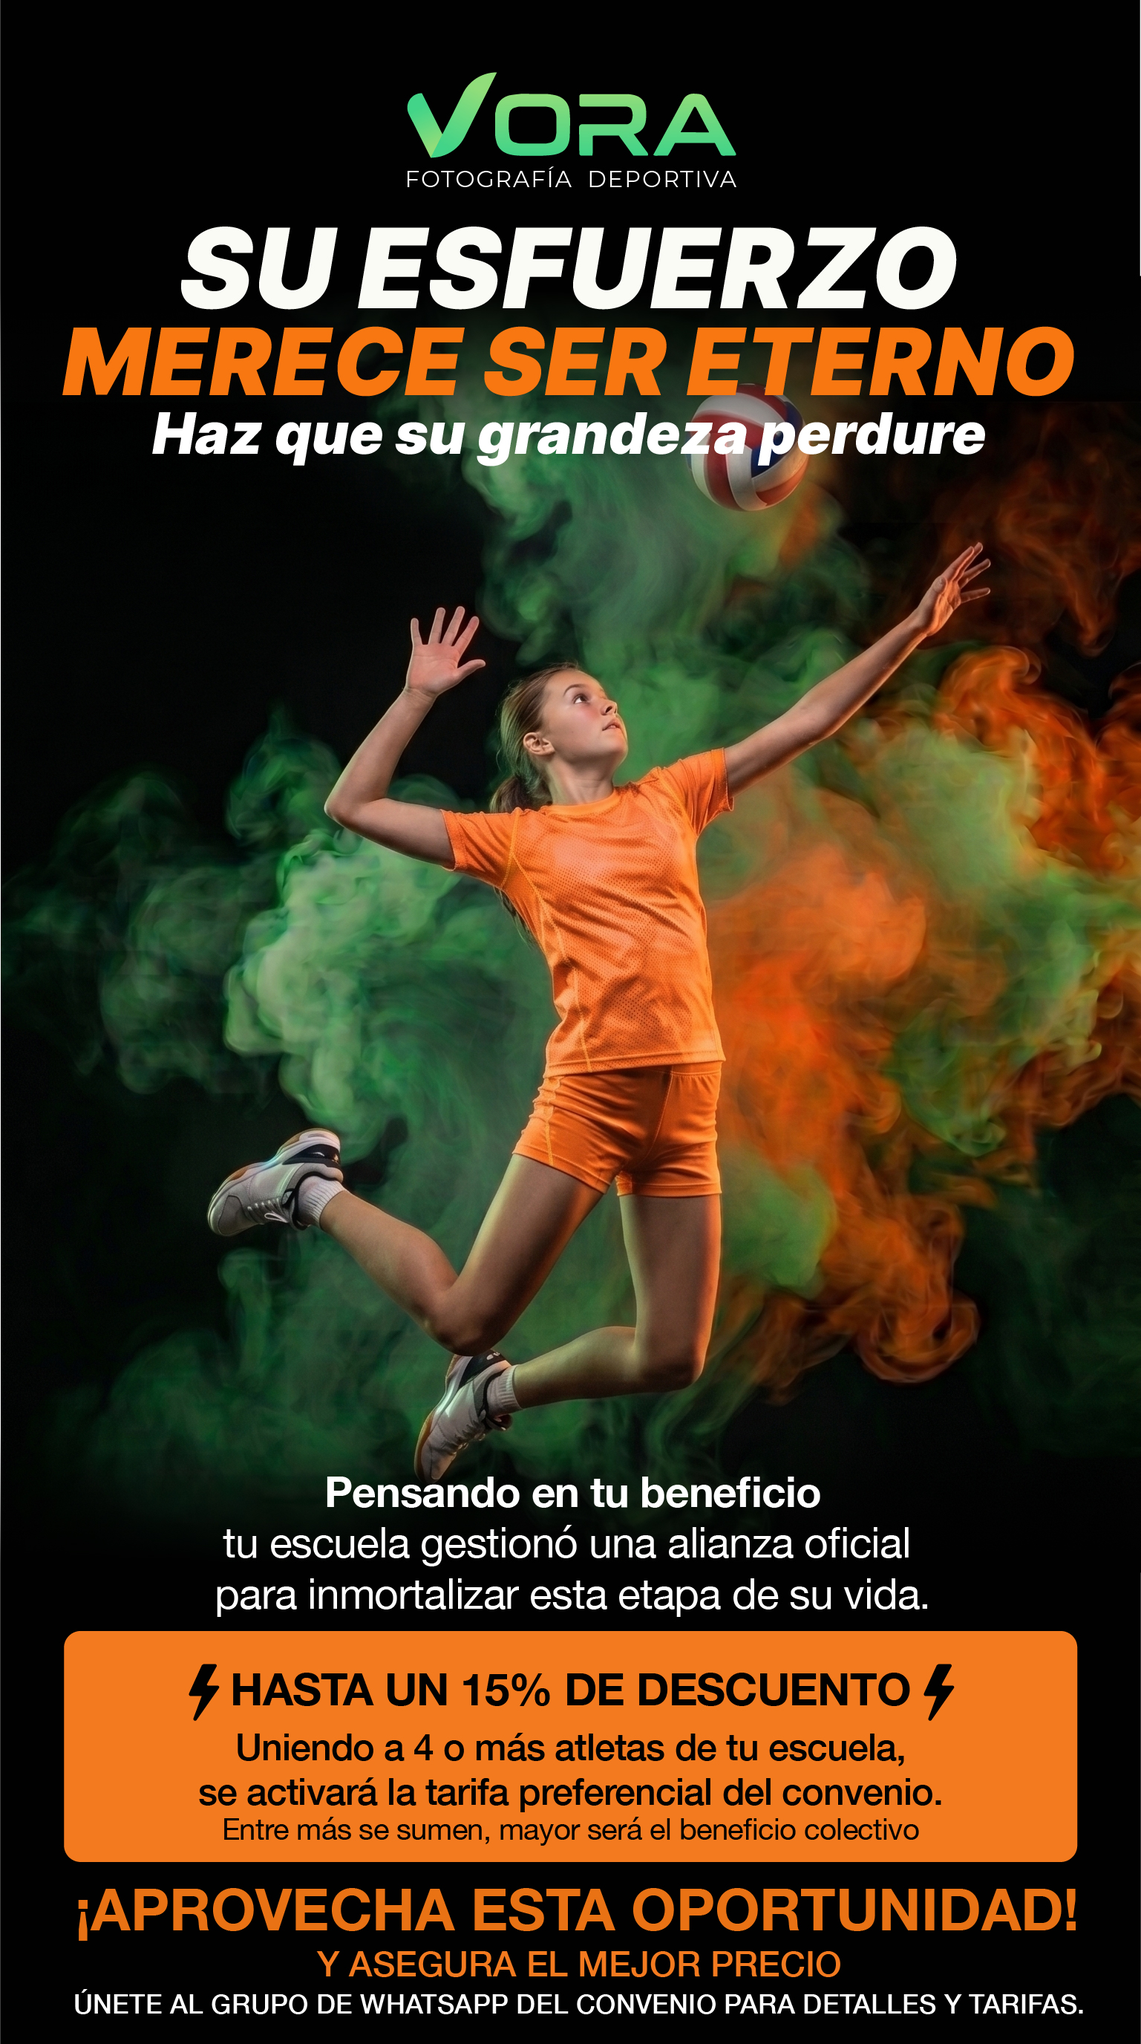
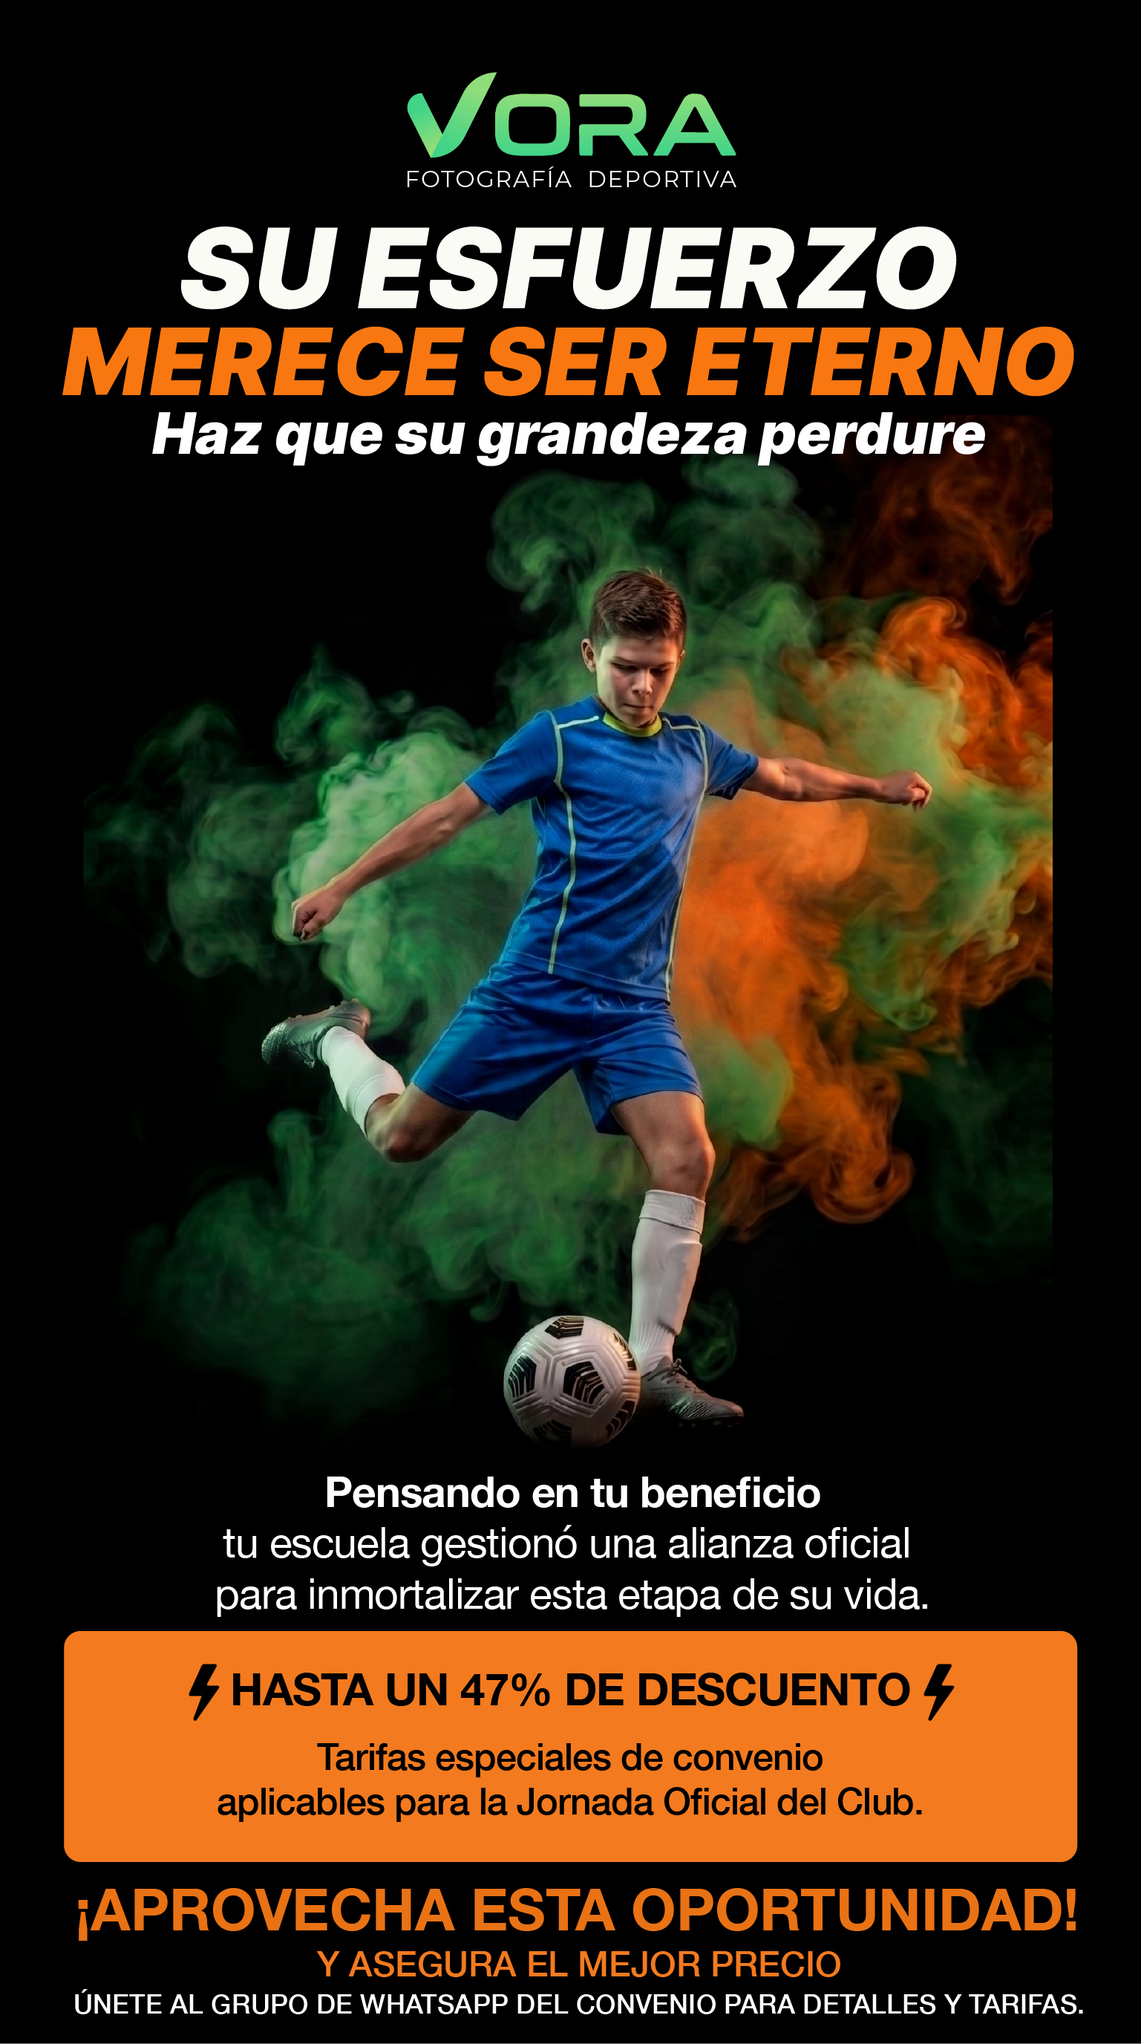
update

diff --git a/guia-director.html b/guia-director.html
@@ -60,7 +60,7 @@ src="https://www.facebook.com/tr?id=2454984681677080&ev=PageView&noscript=1"
                 <div class="wa-item-wrapper">
                     <a href="#wa-desc-1" class="wa-number-badge">1</a>
                     <div class="wa-bubble">
-                        <p>¡Hola a todos! 🏆 Como parte de nuestro compromiso con el crecimiento de nuestros atletas, hemos concretado una alianza con <strong>Taller VORA</strong> para elevar su imagen deportiva.</p>
+                        <p>¡Hola a todos! 🏆 Como parte de nuestro compromiso con el desarrollo de nuestros atletas, hemos concretado una alianza con Taller VORA, un proyecto liderado por uno de los padres de nuestra comunidad, para acompañar e inmortalizar esta etapa deportiva de los chicos.</p>
                     </div>
                 </div>
                 
@@ -89,7 +89,7 @@ src="https://www.facebook.com/tr?id=2454984681677080&ev=PageView&noscript=1"
                 <div class="wa-item-wrapper">
                     <a href="#wa-desc-4" class="wa-number-badge">4</a>
                     <div class="wa-btn-vip">
-                        <i class="fab fa-whatsapp"></i> ACCESO AL GRUPO VIP
+                        <i class="fab fa-whatsapp"></i> contacto con taller VORA
                     </div>
                 </div>
             </div>
@@ -109,7 +109,7 @@ src="https://www.facebook.com/tr?id=2454984681677080&ev=PageView&noscript=1"
                     <span class="step-number-large">01</span>
                     <h2 class="step-title">TEXTO DE APERTURA</h2>
                     <p class="step-description">Este párrafo se suministra como una propuesta base que puedes copiar y pegar para facilitar la comunicación. Sin embargo, como Director, tienes total libertad de redactar tu propio mensaje o ajustar este texto para que se adapte mejor al tono y estilo de tu institución al momento de presentarnos como tus nuevos aliados.</p>
-                    <button class="btn-outline-orange" style="font-size: 0.8rem; padding: 10px 20px; cursor: pointer; display: inline-flex; align-items: center; gap: 8px;" onclick="copyBaseProposal(this)">
+                    <button class="btn-primary-neon" style="font-size: 0.8rem; padding: 10px 20px; cursor: pointer; display: inline-flex; align-items: center; gap: 8px;" onclick="copyBaseProposal(this)">
                         <span class="material-icons" style="font-size: 1.2rem;">content_copy</span>
                         COPIAR PROPUESTA BASE
                     </button>
@@ -118,7 +118,7 @@ src="https://www.facebook.com/tr?id=2454984681677080&ev=PageView&noscript=1"
                 <div class="wa-expl-step" id="wa-desc-2">
                     <span class="step-number-large">02</span>
                     <h2 class="step-title">AFICHE Y RUTAS DE PRESENTACIÓN</h2>
-                    <p class="step-description">Es el elemento visual clave para captar la atención de los padres. El afiche destaca el nivel de calidad de VORA, la alianza oficial con la escuela y explica que los padres pueden alcanzar <strong class="text-neon-orange">hasta un 15%</strong> de descuento según la participación.</p>
+                    <p class="step-description">Es el elemento visual clave para captar la atención de los padres. El afiche destaca el nivel de calidad de VORA, la alianza oficial con la escuela y explica que los padres pueden alcanzar <strong class="text-neon-orange">hasta un 47%</strong> según el paquete elegido.</p>
                     <div style="margin-top: 20px; border-left: 2px solid var(--neon-orange); padding-left: 20px;">
                         <p class="step-description" style="font-size: 0.95rem; margin-bottom: 15px;"><strong>Ruta A (Gestión Autónoma):</strong> Te suministramos el material para que tú mismo lo compartas en tus canales oficiales si prefieres mantener el control total de la comunicación interna.</p>
                         <p class="step-description" style="font-size: 0.95rem; margin-bottom: 0;"><strong>Ruta B (Gestión Delegada):</strong> Nos integras al chat grupal de padres para que nosotros realicemos la presentación formal, resolvamos dudas técnicas y gestionemos el interés de las familias directamente.</p>
@@ -147,11 +147,11 @@ src="https://www.facebook.com/tr?id=2454984681677080&ev=PageView&noscript=1"
                     <h2 class="step-title">PORTAL INFORMATIVO Y TARIFARIO</h2>
                     <p class="step-description">A través de este enlace, el acudiente accede a una plataforma detallada diseñada para resolver todas sus dudas. Aquí podrán explorar la galería de muestras, conocer los diferentes productos físicos y digitales disponibles, consultar la tabla de precios y entender la dinámica de los beneficios por grupo. Al centralizar la información, evitamos que los padres saturen a los profesores con consultas comerciales o técnicas.</p>
                     <div style="margin-top: 25px; display: flex; gap: 15px; flex-wrap: wrap;">
-                        <a href="alianzas_padres.html" class="btn-primary-neon" style="text-decoration: none; display: inline-flex; align-items: center; gap: 10px;">
+                        <a href="alianzas_padres.html" class="btn-outline-white" style="text-decoration: none; display: inline-flex; align-items: center; gap: 10px;">
                             <span class="material-icons">visibility</span>
                             VER PÁGINA QUE VISITAN LOS PADRES
                         </a>
-                        <button class="btn-outline-orange" style="font-size: 0.8rem; padding: 10px 20px; cursor: pointer; display: inline-flex; align-items: center; gap: 8px;" onclick="copyPortalLink(this)">
+                        <button class="btn-primary-neon" style="font-size: 0.8rem; padding: 10px 20px; cursor: pointer; display: inline-flex; align-items: center; gap: 8px;" onclick="copyPortalLink(this)">
                             <span class="material-icons" style="font-size: 1.2rem;">content_copy</span>
                             COPIAR EL ENLACE
                         </button>
@@ -160,23 +160,19 @@ src="https://www.facebook.com/tr?id=2454984681677080&ev=PageView&noscript=1"
 
                 <div class="wa-expl-step" id="wa-desc-4">
                     <span class="step-number-large">04</span>
-                    <h2 class="step-title">ACCESO AL GRUPO VIP (GESTIÓN LOGÍSTICA)</h2>
+                    <h2 class="step-title">CONTACTO POR WHATSAPP</h2>
                     <p class="step-description">Es el canal final donde VORA asume la delegación logística total. En este espacio gestionamos el agendamiento de los atletas interesados, coordinamos los turnos de las jornadas fotográficas y realizamos el recaudo de los pagos. Esto garantiza una ejecución impecable con <strong class="text-neon-orange">cero carga administrativa</strong> para el Director y el cuerpo docente.</p>
-                    <a href="https://wa.me/573239135052?text=Hola%20VORA,%20soy%20Director%20y%20deseo%20solicitar%20la%20creaci%C3%B3n%20del%20grupo%20VIP%20para%20mi%20escuela." class="btn-focal-orange" style="display: inline-flex; align-items: center; gap: 10px;">
-                        <i class="fab fa-whatsapp"></i> SOLICITAR CREACIÓN DE GRUPO VIP
-                    </a>
+                    <p class="step-description">Es el canal final donde VORA asume la delegación logística total. En este espacio gestionamos el agendamiento de los atletas interesados, coordinamos los turnos de las jornadas fotográficas y realizamos el recaudo de los pagos. Esto garantiza una ejecución impecable con <strong class="text-neon-orange">cero carga administrativa</strong> para el Director y el cuerpo docente.</p>
+                    <button onclick="copyGroupCreationRequest(this)" class="btn-primary-neon" style="display: inline-flex; align-items: center; gap: 10px;">
+                        <i class="material-icons">content_copy</i> COPIAR ENLACE
+                    </button>
                 </div>
             </div>
         </header>
 
 
 
-        <section class="benefit-footer-box">
-            <h3 class="text-neon-green">PROCESO DE LIQUIDACIÓN DE COMISIONES</h3>
-            <p style="max-width: 700px; margin: 15px auto; color: #aaa;">Recuerda que existe una comisión del <span class="text-neon-orange">5%</span> sobre las sesiones generadas por tu grupo. Tienes la opción de transferir este beneficio a los padres para que accedan al descuento máximo del <span class="text-neon-orange">20%</span>. <strong>Si decides hacerlo, nos aseguraremos de hacerle saber a los padres que obtuvieron este beneficio adicional gracias a la gestión de la escuela.</strong> De lo contrario, las familias obtendrán un <span class="text-neon-orange">15%</span> de descuento y el club recibirá su comisión del <span class="text-neon-orange">5%</span>.
- <br><br>
- El desembolso del beneficio institucional se realiza de manera transparente 48 horas después del pago de las sesiones por parte de los padres, asegurando un flujo de caja positivo para el fondo de apoyo del club.</p>
-        </section>
+        
 
         <div class="text-center" style="margin-top: 50px;">
             <p style="color: #888; margin-bottom: 20px;">¿Necesitas apoyo personalizado o material extra?</p>

diff --git a/Blog/suscribete.html b/Blog/suscribete.html
@@ -247,26 +247,27 @@ src="https://www.facebook.com/tr?id=2454984681677080&ev=PageView&noscript=1"
                         </span>
                     </summary>
                     <div class="pt-2 pb-6 text-neutral-600 font-sans text-xs md:text-sm leading-relaxed space-y-4 max-w-2xl">
-                        <ul class="space-y-3 pl-4 list-decimal marker:font-bold marker:text-voraGreen">
-                            <li>
-                                <strong>Dinámica de Activación:</strong> El sorteo se realizará el 1 de Agosto entre los primeros 100 suscriptores registrados.
+                        <ol class="space-y-4 list-decimal list-outside pl-5 marker:text-voraGreen marker:font-black">
+                            <li class="pl-2">
+                                <strong class="text-voraGreen font-black block">Requisito Mínimo de Activación:</strong>
+                                La realización de la jornada oficial de fotos y la entrega de las 2 sesiones del sorteo están sujetas a alcanzar un cupo mínimo de 20 atletas inscritos en la institución. En caso de no alcanzar el cupo mínimo, la jornada se reprogramará y el sorteo quedará pausado hasta cumplir el requisito de grupo.
                             </li>
-                            <li>
-                                <strong>Premio:</strong> Se sorteará una (1) Sesión Fotográfica Deportiva correspondiente al "Paquete Esencial" de la marca.
+                            <li class="pl-2">
+                                <strong class="text-voraGreen font-black block">Condiciones para Participar:</strong>
+                                Cumplido el cupo mínimo, se sortearán 2 Sesiones Fotográficas Deportivas ("Paquete Esencial"):
+                                <ul class="list-disc list-inside pl-2 mt-2 space-y-1 text-neutral-500">
+                                    <li><strong class="text-voraBlack">Premio 1 (Exclusivo Compradores):</strong> Se sorteará entre los padres que adquieran su paquete de fotos bajo la tarifa de convenio antes de la fecha límite.</li>
+                                    <li><strong class="text-voraBlack">Premio 2 (Comunidad General):</strong> Se sorteará entre todos los padres del club que se suscriban a nuestro blog y a nuestro canal de YouTube.</li>
+                                </ul>
                             </li>
-                            <li>
-                                <strong>Restricción Geográfica:</strong> La sesión fotográfica se realizará exclusivamente dentro del perímetro urbano de la ciudad de Bogotá, Colombia.
+                            <li class="pl-2">
+                                <strong class="text-voraGreen font-black block">Dinámica de Selección:</strong> El sorteo se realizará una semana antes de la jornada oficial de fotos de la escuela.
                             </li>
-                            <li>
-                                <strong>Logística y Locación:</strong> El lugar específico, la fecha y la hora de la producción serán determinados única y exclusivamente por el fotógrafo asignado de Taller VORA, buscando garantizar los estándares de iluminación y estética del producto final. El ganador deberá coordinar su asistencia según la disponibilidad del set o locación elegida.
+                            <li class="pl-2">
+                                <strong class="text-voraGreen font-black block">Ejecución de la Sesión:</strong> La realización de la sesión fotográfica del premio se llevará a cabo exclusivamente durante las jornadas programadas para el club.
                             </li>
-                            <li>
-                                <strong>Redención:</strong> El premio es intransferible, no es canjeable por dinero en efectivo ni por otros servicios de la marca, y debe ser redimido en la fecha acordada por la organización.
-                            </li>
-                            <li>
-                                <strong>Doble Oportunidad:</strong> Este sorteo es independiente al sorteo paralelo ejecutado en nuestro canal de YouTube. Registrarse en el blog otorga una (1) oportunidad para la base de datos de correos electrónicos.
-                            </li>
-                        </ul>
+                            <li class="pl-2"><strong class="text-voraGreen font-black block">Redención y Condiciones:</strong> El premio es personal e intransferible, no es canjeable por dinero en efectivo ni por otros servicios de la marca, y debe ser redimido en la fecha acordada para la jornada de la institución.</li>
+                        </ol>
                     </div>
                 </details>
             </div>

diff --git a/styles.css b/styles.css
@@ -2126,6 +2126,25 @@ body {
     box-shadow: 0 0 30px rgba(76, 215, 143, 0.5);
 }
 
+/* Botón de contorno blanco */
+.btn-outline-white {
+    border: 1px solid #ccc;
+    color: #ccc;
+    background: transparent;
+    padding: 18px 35px;
+    text-decoration: none;
+    font-weight: 700;
+    border-radius: 8px;
+    transition: 0.3s;
+    display: inline-block;
+}
+
+.btn-outline-white:hover {
+    background: rgba(255, 255, 255, 0.1);
+    color: #fff;
+    border-color: #fff;
+}
+
 /* TRUST ICONS (GARANTÍA) */
 .trust-icons {
     display: flex;
@@ -3404,6 +3423,68 @@ body {
 
 .verify-link:hover {
     color: var(--neon-green);
+}
+
+/* =========================================
+   SECCIÓN CTA SECUNDARIA (WHATSAPP)
+   ========================================= */
+.secondary-cta-section {
+    background-color: #000;
+    padding: 80px 5%;
+    text-align: center;
+}
+
+.secondary-cta-container {
+    max-width: 700px;
+    margin: 0 auto;
+    background-color: #0a0a0a;
+    border: 1px solid #1a1a1a;
+    padding: 60px 40px;
+    border-radius: 15px;
+}
+
+.secondary-cta-container h2 {
+    color: #fff;
+    font-size: 1.8rem;
+    font-weight: 900;
+    margin-bottom: 20px;
+    line-height: 1.2;
+}
+
+.secondary-cta-container p {
+    color: #aaa;
+    line-height: 1.6;
+    margin-bottom: 30px;
+    font-size: 1rem;
+}
+
+.btn-whatsapp-cta {
+    display: inline-flex;
+    align-items: center;
+    gap: 12px;
+    background-color: var(--neon-green);
+    color: #000;
+    padding: 18px 35px;
+    border-radius: 8px;
+    font-weight: 900;
+    text-transform: uppercase;
+    text-decoration: none;
+    box-shadow: 0 0 25px rgba(76, 215, 143, 0.3);
+    transition: all 0.3s cubic-bezier(0.4, 0, 0.2, 1);
+    border: none;
+    cursor: pointer;
+    font-size: 0.9rem;
+}
+
+.btn-whatsapp-cta:hover {
+    transform: translateY(-3px) scale(1.03);
+    box-shadow: 0 10px 35px rgba(76, 215, 143, 0.5);
+    background-color: #59ffaa;
+}
+
+@media (max-width: 768px) {
+    .secondary-cta-container { padding: 40px 25px; }
+    .secondary-cta-container h2 { font-size: 1.5rem; }
 }
 
 /* =========================================

diff --git a/alianzas_padres.html b/alianzas_padres.html
@@ -439,22 +439,25 @@ src="https://www.facebook.com/tr?id=2454984681677080&ev=PageView&noscript=1"
 
 <hr class="section-divider">
 
-<section id="buscador-convenios" class="search-convenio-section">
-    <div class="search-container">
-        <img src="assets/icono wapp.png" alt="Icono WhatsApp" class="title-whatsapp-icon">
-        <div class="title-with-icons">
-            <h2 class="section-title" style="font-size: 1.8rem; margin: 0;">UNETE AL GRUPO <br> DE TU CLUB</h2>
-        </div>
-        <p style="color: #888; max-width: 500px; margin: 0 auto 30px;">Ingresa el nombre de tu institución para unirte al grupo de chat donde compartiremos los detalles del convenio, responderemos preguntas y coordinaremos la logística.</p>
-        
-        <div class="search-input-group">
-            <input type="text" id="club-search-input" class="search-input" placeholder="Escribe el nombre de tu escuela o club..." autocomplete="off">
-            <button id="btn-verify-club" class="btn-verify">INGRESAR PARA CONSULTAR</button>
-        </div>
-
-        <div id="search-results-container" class="search-results"></div>
+<!-- SECCIÓN CTA SECUNDARIA WHATSAPP -->
+<section class="secondary-cta-section">
+    <div class="secondary-cta-container">
+        <h2>¿TIENES DUDAS O QUIERES MÁS INFORMACIÓN?</h2>
+        <p>Escríbenos directamente por WhatsApp. Te explicaremos el paso a paso de la jornada, resolveremos tus inquietudes y te enviaremos los detalles para coordinar con tu equipo.</p>
+        <a href="https://wa.me/573239135052?text=%C2%A1Hola%2C%20Taller%20VORA%21%20Vi%20la%20informaci%C3%B3n%20de%20las%20sesiones%20en%20la%20p%C3%A1gina%20web.%20Me%20gustar%C3%ADa%20conocer%20m%C3%A1s%20detalles%20para%20el%20club%20Future%20Stars%20y%20resolver%20unas%20preguntas." class="btn-whatsapp-cta" target="_blank" rel="noopener noreferrer">
+            <i class="fab fa-whatsapp"></i>
+            RESOLVER DUDAS POR WHATSAPP
+        </a>
     </div>
 </section>
+
+
+
+
+
+
+
+
 
 <hr class="section-divider">
 

diff --git a/script.js b/script.js
@@ -443,8 +443,8 @@ function executeCopy(text, btn) {
     const successCallback = () => {
         const originalContent = btn.innerHTML;
         btn.innerHTML = '<span class="material-icons" style="font-size: 1.2rem;">check</span> ¡COPIADO!';
-        btn.style.color = "var(--neon-green)";
-        btn.style.borderColor = "var(--neon-green)";
+        btn.style.color = "var(--white)";
+        btn.style.borderColor = "var(--white)";
         setTimeout(() => {
             btn.innerHTML = originalContent;
             btn.style.color = "";
@@ -479,7 +479,7 @@ function fallbackCopy(text, callback) {
 }
 
 function copyBaseProposal(btn) {
-    const text = "¡Hola a todos! 🏆 Como parte de nuestro compromiso con el crecimiento de nuestros atletas, hemos concretado una alianza con Taller VORA para elevar su imagen deportiva.";
+    const text = "¡Hola a todos! 🏆 Como parte de nuestro compromiso con el desarrollo de nuestros atletas, hemos concretado una alianza con Taller VORA, un proyecto liderado por uno de los padres de nuestra comunidad, para acompañar e inmortalizar esta etapa deportiva de los chicos.";
     executeCopy(text, btn);
 }
 
@@ -498,7 +498,12 @@ function shareViaWhatsApp() {
 }
 
 function copyPortalLink(btn) {
-    const text = "https://www.tallervora.com/alianzas_padres.html";
+    const text = `🔎 Revisa la galería de fotos, los paquetes y el descuento especial de club en la página oficial: https://www.tallervora.com/alianzas_padres.html`;
+    executeCopy(text, btn);
+}
+
+function copyGroupCreationRequest(btn) {
+    const text = "💬 ¿Tienen dudas o quieren más información? Contáctalos directamente sin compromiso en el siguiente enlace: https://api.whatsapp.com/send/?phone=573239135052&text&type=phone_number&app_absent=0";
     executeCopy(text, btn);
 }
 
